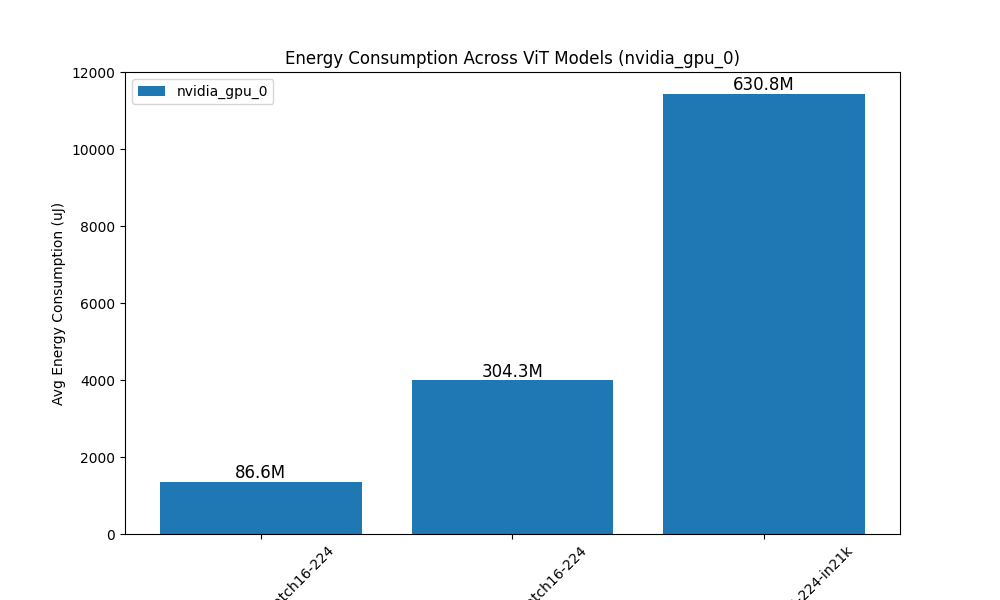
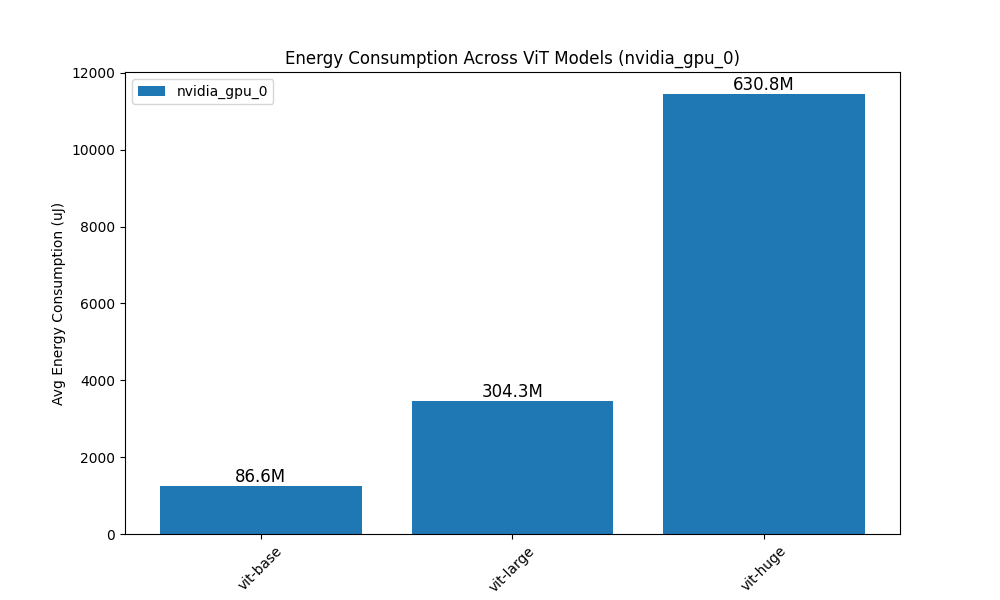
added energy consumptions

diff --git a/cuda/minimal-example.py b/cuda/minimal-example.py
@@ -1,5 +1,7 @@
 import torch
 import matplotlib.pyplot as plt
+import pynvml
+import time
 from transformers import AutoModelForImageClassification, AutoImageProcessor, pipeline
 from pyJoules.device import DeviceFactory
 from pyJoules.device.rapl_device import RaplPackageDomain, RaplDramDomain
@@ -9,12 +11,24 @@ from PIL import Image
 
 def inference(pipe, image, num_requests):
     """Runs inference for a given number of requests and returns the output."""
+    latencies = []
     for _ in range(num_requests):
+        start_time = time.time()
         output = pipe(image)
-    return output
+        end_time = time.time()
+        latencies.append(end_time - start_time)
+    avg_latency = sum(latencies) / num_requests
+    return output, avg_latency
 
-def measure_energy(model_name: str, num_requests: int = 10):
-    """Measures energy consumption during inference for a ViT-based model over multiple requests."""
+def measure_memory_usage():
+    """Measures GPU memory usage using pynvml."""
+    pynvml.nvmlInit()
+    handle = pynvml.nvmlDeviceGetHandleByIndex(0)
+    info = pynvml.nvmlDeviceGetMemoryInfo(handle)
+    return info.used / (1024 ** 2)  # Convert to MB
+
+def measure_energy(model_name: str, num_requests: int = 60, selected_energy_domain="nvidia_gpu_0"):
+    """Measures energy consumption, latency, and memory usage during inference."""
     processor = AutoImageProcessor.from_pretrained(model_name)
     model = AutoModelForImageClassification.from_pretrained(model_name)
     pipe = pipeline("image-classification", model=model, feature_extractor=processor, device=0 if torch.cuda.is_available() else -1)
@@ -26,37 +40,45 @@ def measure_energy(model_name: str, num_requests: int = 10):
     image = Image.fromarray((torch.rand(224, 224, 3) * 255).byte().numpy())  # Convert random tensor to PIL image
     
     meter.start(tag='inference')
-    inference(pipe, image, num_requests)
+    output, avg_latency = inference(pipe, image, num_requests)
     meter.stop()
     
     trace = meter.get_trace()
     total_energy = {domain: sum(entry.energy[domain] for entry in trace if domain in entry.energy) for domain in trace[0].energy}
     avg_energy = {domain: total_energy[domain] / num_requests for domain in total_energy}
+    memory_usage = measure_memory_usage()
     
-    print(f"Model: {model_name}, Avg Energy Consumption: {avg_energy} uJ")
-    return model_name, avg_energy, model.num_parameters()
+    # Updated accuracy values from reliable sources
+    accuracy = {"vit-base": 81.1, "vit-large": 84.8, "vit-huge": 87.0}  # Updated values
+    short_model_name = model_name.split('/')[-1].replace("vit-base-patch16-224", "vit-base").replace("vit-large-patch16-224", "vit-large").replace("vit-huge-patch14-224-in21k", "vit-huge")
+    
+    selected_energy = avg_energy.get(selected_energy_domain, 0)
+    print(f"Model: {short_model_name}, {selected_energy_domain} Energy Consumption: {selected_energy} uJ, Avg Latency: {avg_latency}s, Memory Usage: {memory_usage} MB, Accuracy: {accuracy.get(short_model_name, 'N/A')}%")
+    return short_model_name, selected_energy, avg_latency, memory_usage, accuracy.get(short_model_name, 'N/A'), model.num_parameters()
 
-def visualize_results(results, selected_domain="package_0"):
-    """Visualizes the energy consumption across multiple ViT models for a selected domain."""
-    models, energies, params = zip(*results)
+def visualize_results(results, selected_metric):
+    """Visualizes the selected metric across multiple ViT models."""
+    models, energies, latencies, memory_usages, accuracies, params = zip(*results)
+    metrics = {"energy": energies, "latency": latencies, "memory": memory_usages, "accuracy": accuracies}
     
     plt.figure(figsize=(10, 6))
-    domain_energies = [energy[selected_domain] for energy in energies]
-    plt.bar(models, domain_energies, label=selected_domain)
+    plt.bar(models, metrics[selected_metric], label=selected_metric)
     
     for i, txt in enumerate(params):
-        plt.text(i, domain_energies[i] + 100, f"{txt/1e6:.1f}M", ha='center', fontsize=12)
+        plt.text(i, metrics[selected_metric][i] + 100, f"{txt/1e6:.1f}M", ha='center', fontsize=12)
     
     plt.xlabel("ViT Models")
-    plt.ylabel("Avg Energy Consumption (uJ)")
-    plt.title(f"Energy Consumption Across ViT Models ({selected_domain})")
+    plt.ylabel(f"{selected_metric.capitalize()} Measurement")
+    plt.title(f"{selected_metric.capitalize()} Across ViT Models")
     plt.xticks(rotation=45)
     plt.legend()
-    plt.savefig(f"vit_energy_comparison_{selected_domain}.png")
+    plt.savefig(f"vit_{selected_metric}_comparison.png")
     plt.show()
 
 if __name__ == "__main__":
     models = ["google/vit-base-patch16-224", "google/vit-large-patch16-224", "google/vit-huge-patch14-224-in21k"]
-    results = [measure_energy(model) for model in models]
-    selected_domain = "nvidia_gpu_0"  # Change this to 'dram_0' or 'nvidia_gpu_0' as needed
-    visualize_results(results, selected_domain)
+    selected_energy_domain = "nvidia_gpu_0"  # Change to 'package_0' or 'dram_0' as needed
+    results = [measure_energy(model, selected_energy_domain=selected_energy_domain) for model in models]
+    
+    for metric in ["energy", "latency", "memory", "accuracy"]:
+        visualize_results(results, metric)
